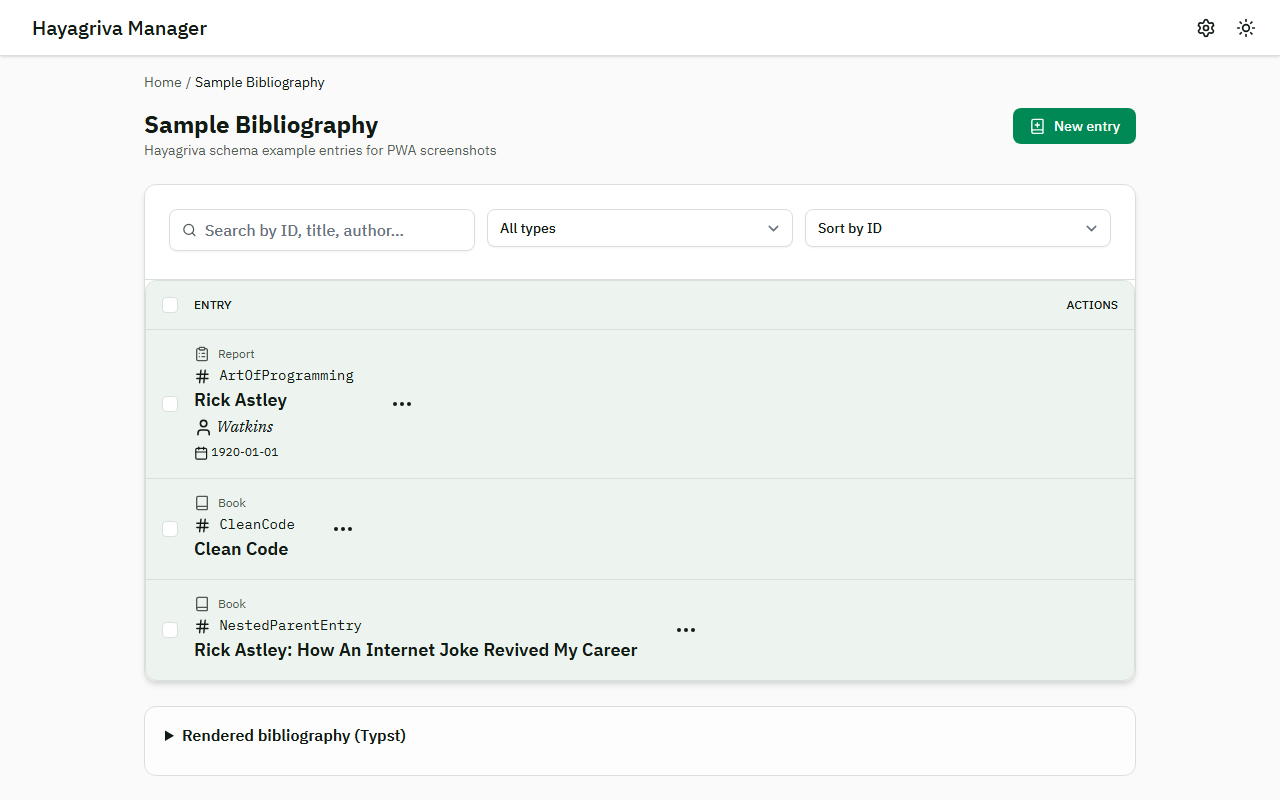
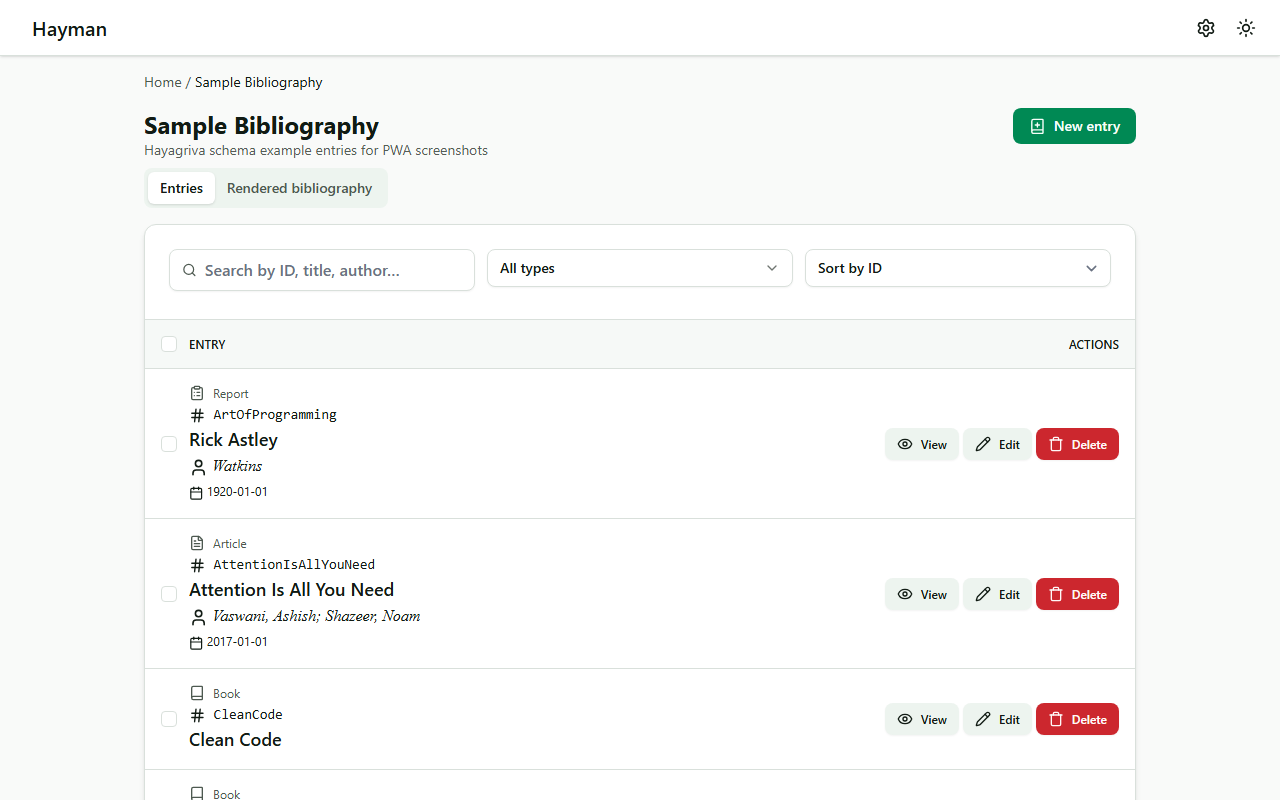
Refresh populated showcase screenshots

diff --git a/src/routes/+page.svelte b/src/routes/+page.svelte
@@ -119,25 +119,25 @@
       <ul class="list shadow-md">
         {#each bibliographies as bib (bib.metadata.id)}
           <li
-            class="grid grid-cols-[auto_minmax(0,1fr)_auto] items-center gap-3 p-4"
+            class="grid grid-cols-[auto_minmax(0,1fr)] items-center gap-3 p-4 sm:grid-cols-[auto_minmax(0,1fr)_auto]"
           >
             <div class="flex items-center justify-center">
               <Library class="size-6 shrink-0" aria-hidden="true" />
             </div>
             <div class="min-w-0">
               <h6 class="truncate font-bold">{bib.metadata.title}</h6>
-              <time class="text-xs text-muted-foreground">
-                Created: {formatDate(bib.metadata.createdAt)}
-              </time>
-              <time class="text-xs text-muted-foreground">
-                · Updated: {formatDate(bib.metadata.updatedAt)}
-              </time>
+              <p class="text-xs text-muted-foreground">
+                Created {formatDate(bib.metadata.createdAt)} · Updated
+                {formatDate(bib.metadata.updatedAt)}
+              </p>
               <p class="mt-1 line-clamp-2 text-sm text-muted-foreground">
                 {bib.metadata.description || 'No description provided.'}
               </p>
             </div>
 
-            <div class="flex shrink-0 flex-row items-center gap-1">
+            <div
+              class="col-span-2 flex shrink-0 flex-row items-center justify-end gap-1 sm:col-span-1"
+            >
               <a
                 href={resolve(`/bibliography/${bib.metadata.id}`)}
                 class="btn btn-sm btn-soft"
